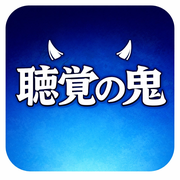
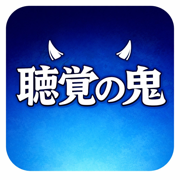
fix: PWAアイコンの角余白を解消しSLHの鬼と同様のmanifest設定に
- choukaku由来の512/180px PNGに統一、白角の旧iconを削除
- manifest に id/scope/display_override と theme 統一、appleWebApp 追加

Made-with: Cursor

diff --git a/app/manifest.ts b/app/manifest.ts
@@ -1,26 +1,32 @@
 import type { MetadataRoute } from "next";
 
+/** スプラッシュ・ステータスバーと揃える（SHLの鬼と同様に theme / background を統一） */
+const THEME = "#0d4a9c";
+
 export default function manifest(): MetadataRoute.Manifest {
   return {
     name: "聴覚・音響の鬼",
     short_name: "聴覚の鬼",
     description: "聴覚・音響の鬼 (MVP)",
+    id: "/",
+    scope: "/",
     start_url: "/",
     display: "standalone",
-    background_color: "#ffffff",
-    theme_color: "#ffffff",
+    display_override: ["standalone", "minimal-ui", "browser"],
+    background_color: THEME,
+    theme_color: THEME,
     icons: [
       {
-        src: "/icon-512.png",
-        sizes: "512x512",
-        type: "image/png",
-        purpose: "any",
-      },
-      {
-        src: "/icon-512-maskable.png",
+        src: "/choukaku-oni-app-512.png",
         sizes: "512x512",
         type: "image/png",
         purpose: "maskable",
+      },
+      {
+        src: "/choukaku-oni-app-512.png",
+        sizes: "512x512",
+        type: "image/png",
+        purpose: "any",
       },
     ],
   };

diff --git a/app/layout.tsx b/app/layout.tsx
@@ -18,11 +18,14 @@ export const metadata: Metadata = {
   title: "聴覚・音響の鬼",
   description: "聴覚・音響の鬼 (MVP)",
   manifest: "/manifest.webmanifest",
-  icons: {
-    icon: [{ url: "/icon-512.png", sizes: "512x512", type: "image/png" }],
-    apple: [
-      { url: "/apple-touch-icon.png", sizes: "180x180", type: "image/png" },
-    ],
+  icons: [
+    { rel: "icon", url: "/choukaku-oni-app-512.png", type: "image/png", sizes: "512x512" },
+    { rel: "apple-touch-icon", url: "/apple-touch-icon.png", sizes: "180x180" },
+  ],
+  appleWebApp: {
+    capable: true,
+    title: "聴覚・音響の鬼",
+    statusBarStyle: "black-translucent",
   },
 };
 
@@ -30,6 +33,7 @@ export const viewport = {
   width: "device-width",
   initialScale: 1,
   viewportFit: "cover",
+  themeColor: "#0d4a9c",
 };
 
 export default function RootLayout({
